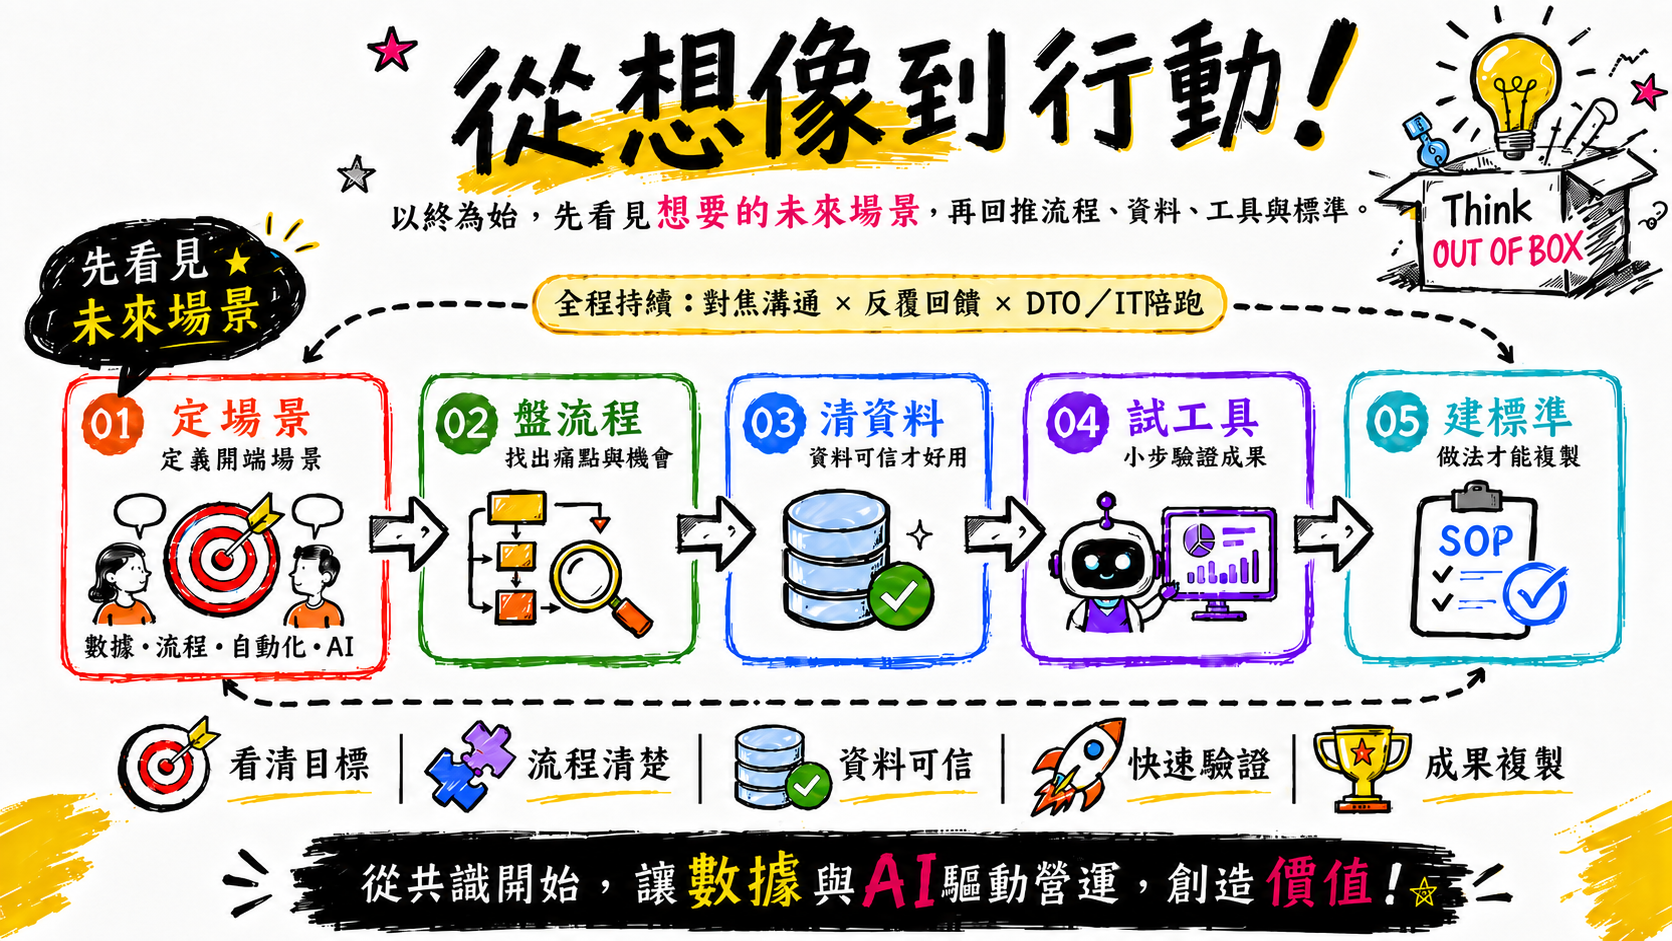
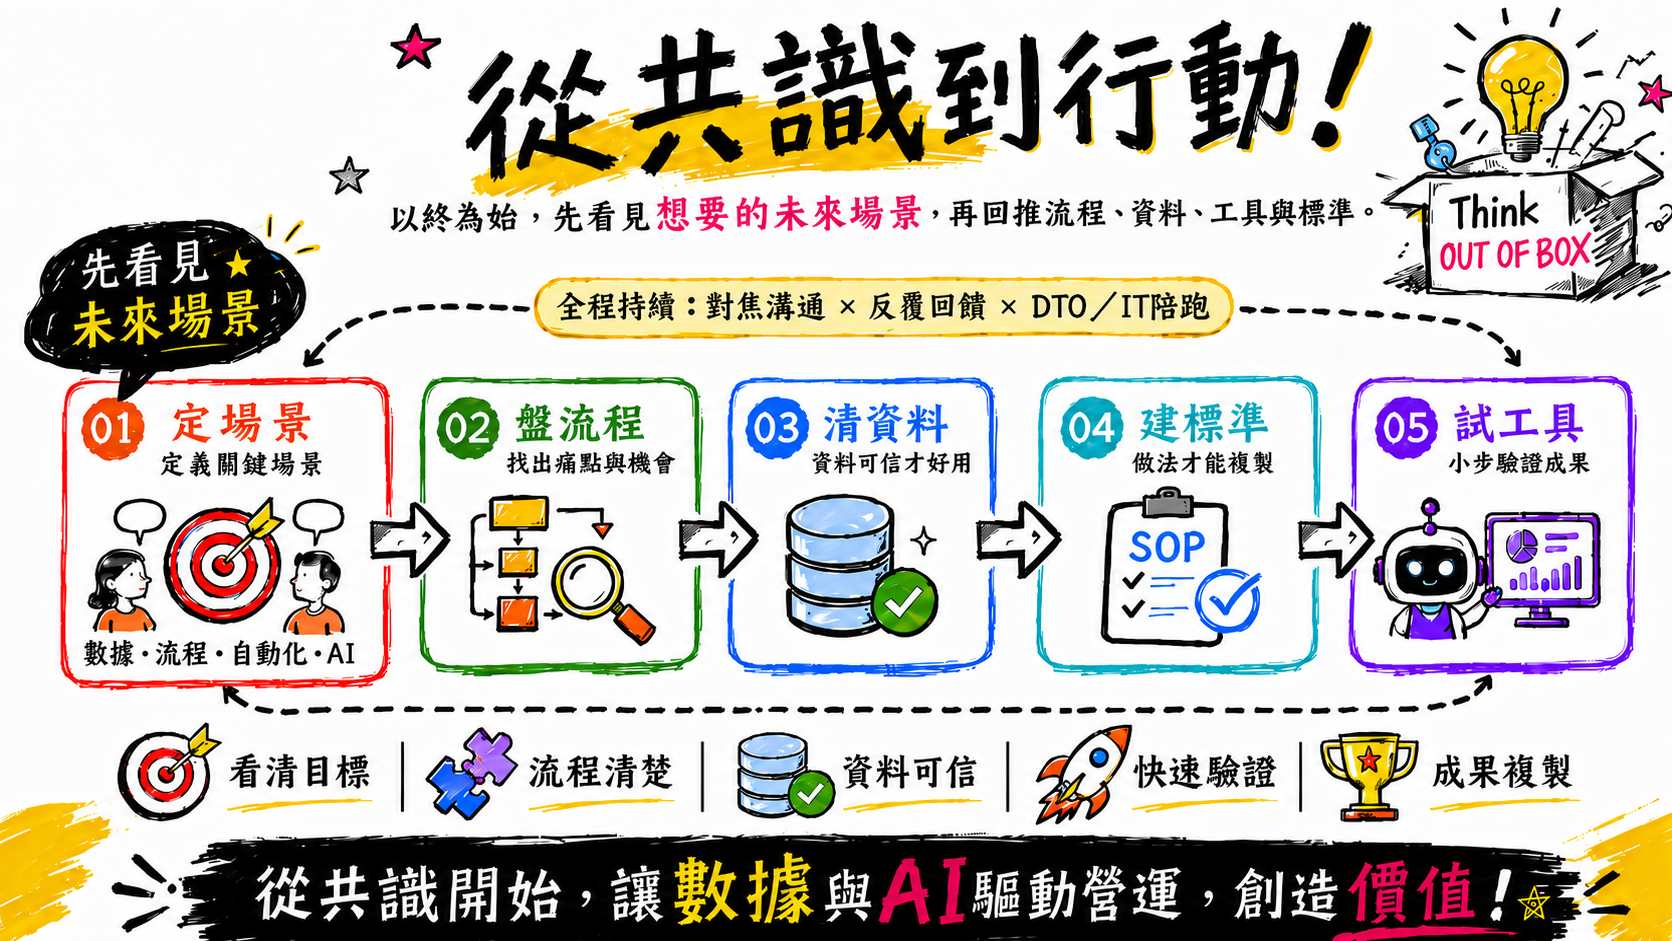
update hero image + remove 5 Profet AI ML cases
- assets/home_hero_top.png: 換新版「從共識到行動」五階段圖（01 定場景 → 02 盤流程 → 03 清資料 → 04 建標準 → 05 試工具）
- v3/home.html: alt text 同步新版順序與標語
- cases.json: 移除 5 個 Profet AI ML 案例 (pmx-hr-attrition / tym-sae-ts-params / pmx-iibg-forcepad / pmx-isb-motor-noise / pmx-cmbu-aa-offset)；pipeline_summary 同步調整 (active_internal_total 13→8, Prototype.active_internal 6→1, exported 13→8)

diff --git a/v3/home.html b/v3/home.html
@@ -200,8 +200,8 @@
   <div class="home-grid__col home-grid__col--left">
 
     <!-- 從想像到行動 hero -->
-    <section class="hero-img-wrap" aria-label="從想像到行動五階段流程">
-      <img src="../assets/home_hero_top.png" alt="從想像到行動 — 五階段流程：定場景 → 盤流程 → 清資料 → 試工具 → 建標準" />
+    <section class="hero-img-wrap" aria-label="從共識到行動五階段流程">
+      <img src="../assets/home_hero_top.png" alt="從共識到行動 — 五階段流程：01 定場景 → 02 盤流程 → 03 清資料 → 04 建標準 → 05 試工具，從共識開始，讓數據與 AI 驅動營運，創造價值" />
       <p class="hero-img-wrap__caption">五個步驟，從共識開始，讓數據與 AI 驅動營運。每一步都需要 DTO / IT 陪跑。</p>
     </section>
 
